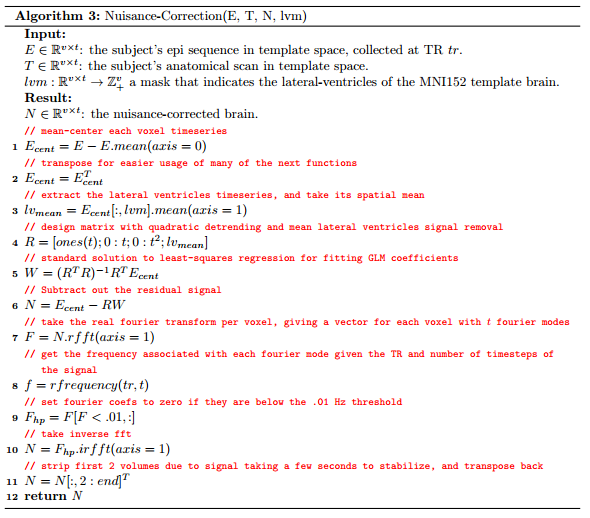
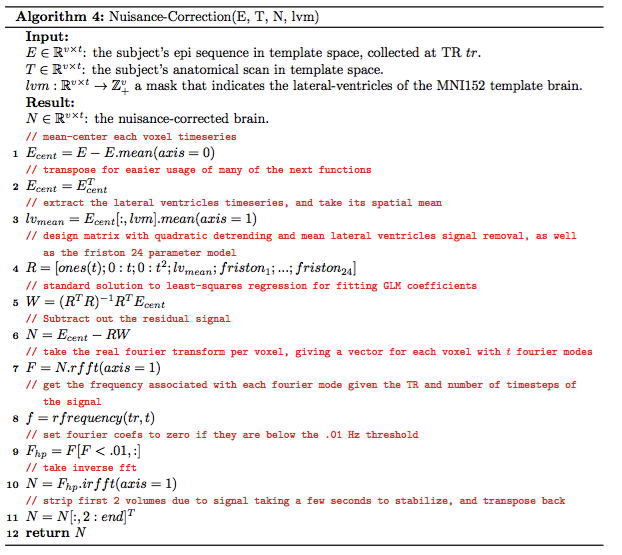
updated slides

Changed region(s): [[0.0, 0.0, 0.9763, 0.9884]]

diff --git a/docs/ebridge2/fngs_merge/week_0525/fngs_final.html b/docs/ebridge2/fngs_merge/week_0525/fngs_final.html
@@ -115,6 +115,14 @@
 
 				<section>
 					<section>
+						<h3><a href="https://github.com/NeuroDataDesign/fngs/blob/master/docs/ebridge2/fngs_merge/week_0602/mc_cmp.ipynb">FNGS effectively Motion Corrects Functional volume using FSL Defaults</a></h3>
+						<img src="./img/preproc_alg.png" width="50%"/>
+					</section>
+				</section>
+
+
+				<section>
+					<section>
 						<h3><a href="https://github.com/NeuroDataDesign/fngs/blob/master/docs/ebridge2/fngs_merge/week_0602/mc_cmp.ipynb">FNGS effectively Motion Corrects Functional volume</a></h3>
 						<ul>
 							<li>Jaccard Index for CPAC and FNGS between all permutations of motion-corrected volumes 0:20:maxtimepoint</li>
@@ -222,7 +230,7 @@
 						<h3>FNGS Achieves competitive discriminability scores to CPAC</h3>
 						<img src="./img/cpac_vs_fngs.png" width="40%"/>
 						<ul>
-							<li><font size="6">SWU4 has no documentation and I did not have slice-timing information, whereas CPAC reads metadata from headers</font></li>
+                                                    <li>difference is accounted for by friston 24 parameter model + compcor for SWU4 dataset</li>
 						</ul>
 					</section>
 				</section>
